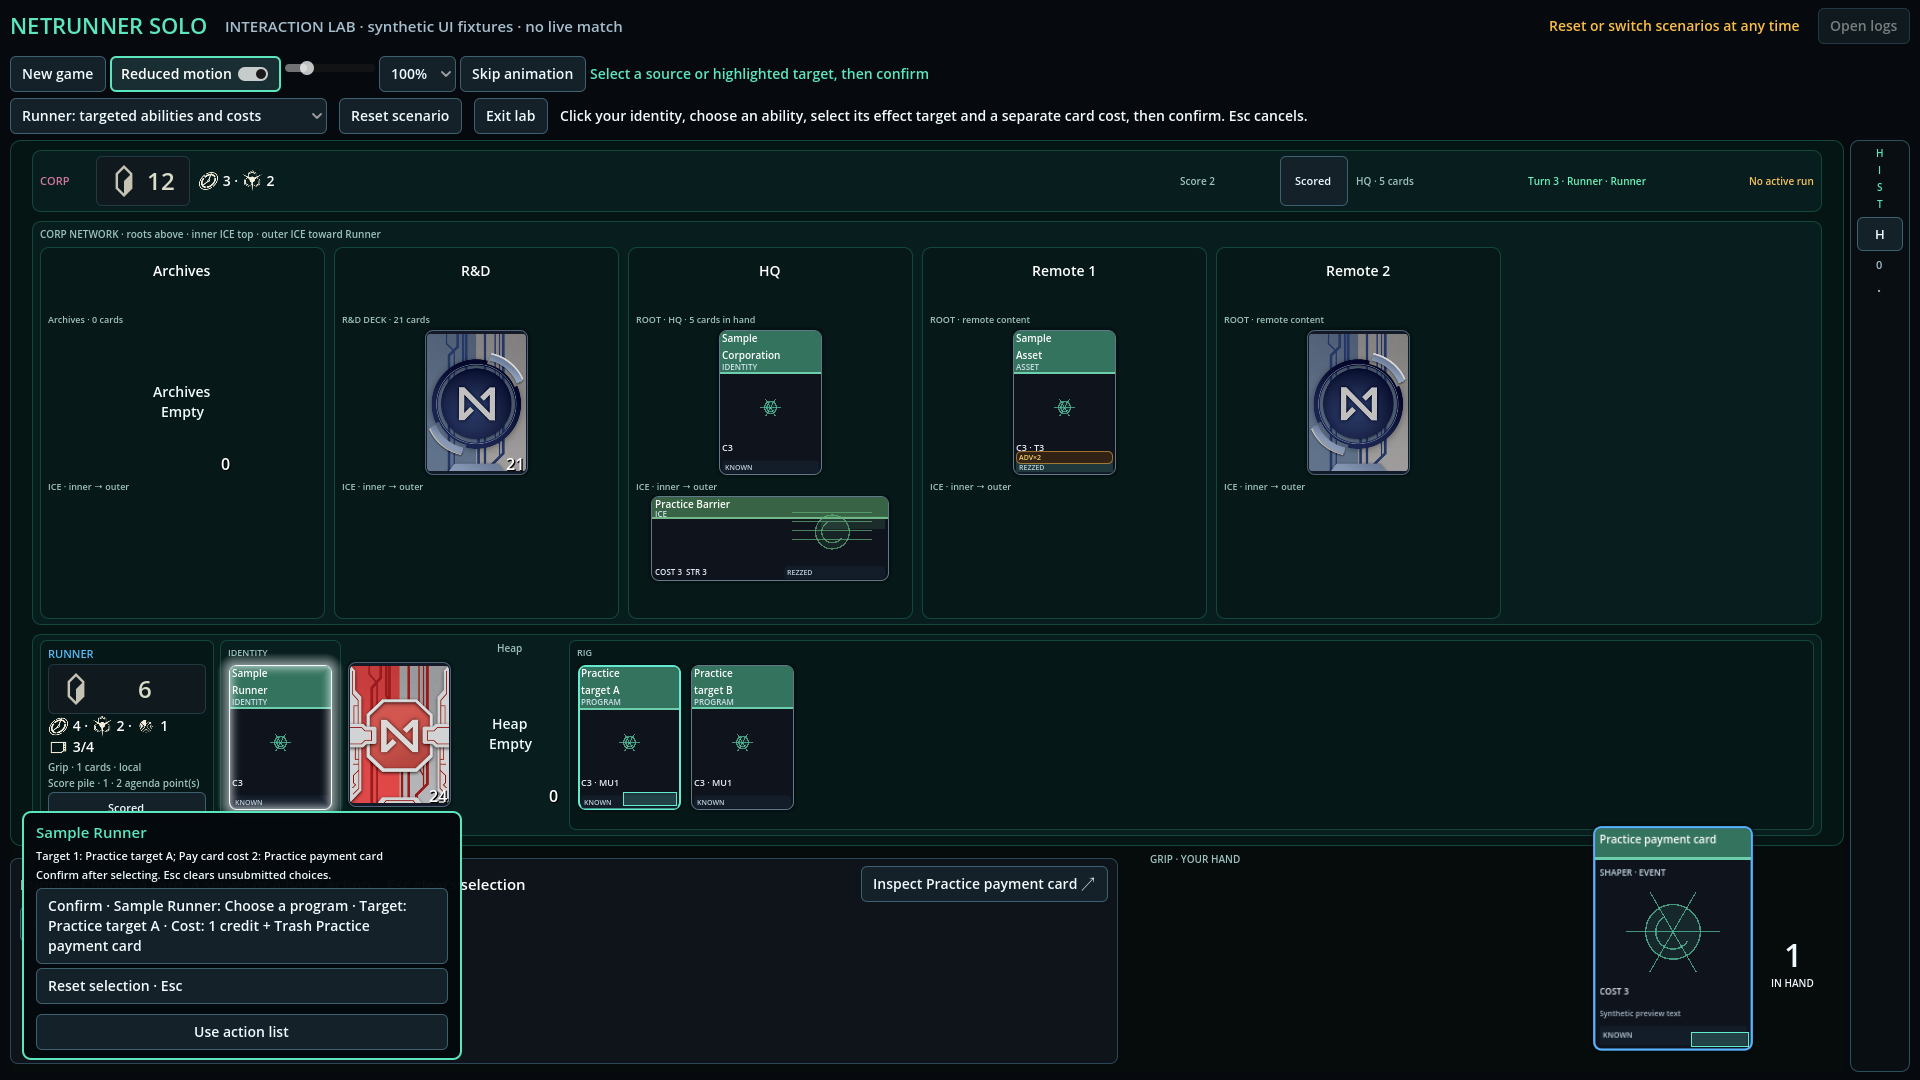
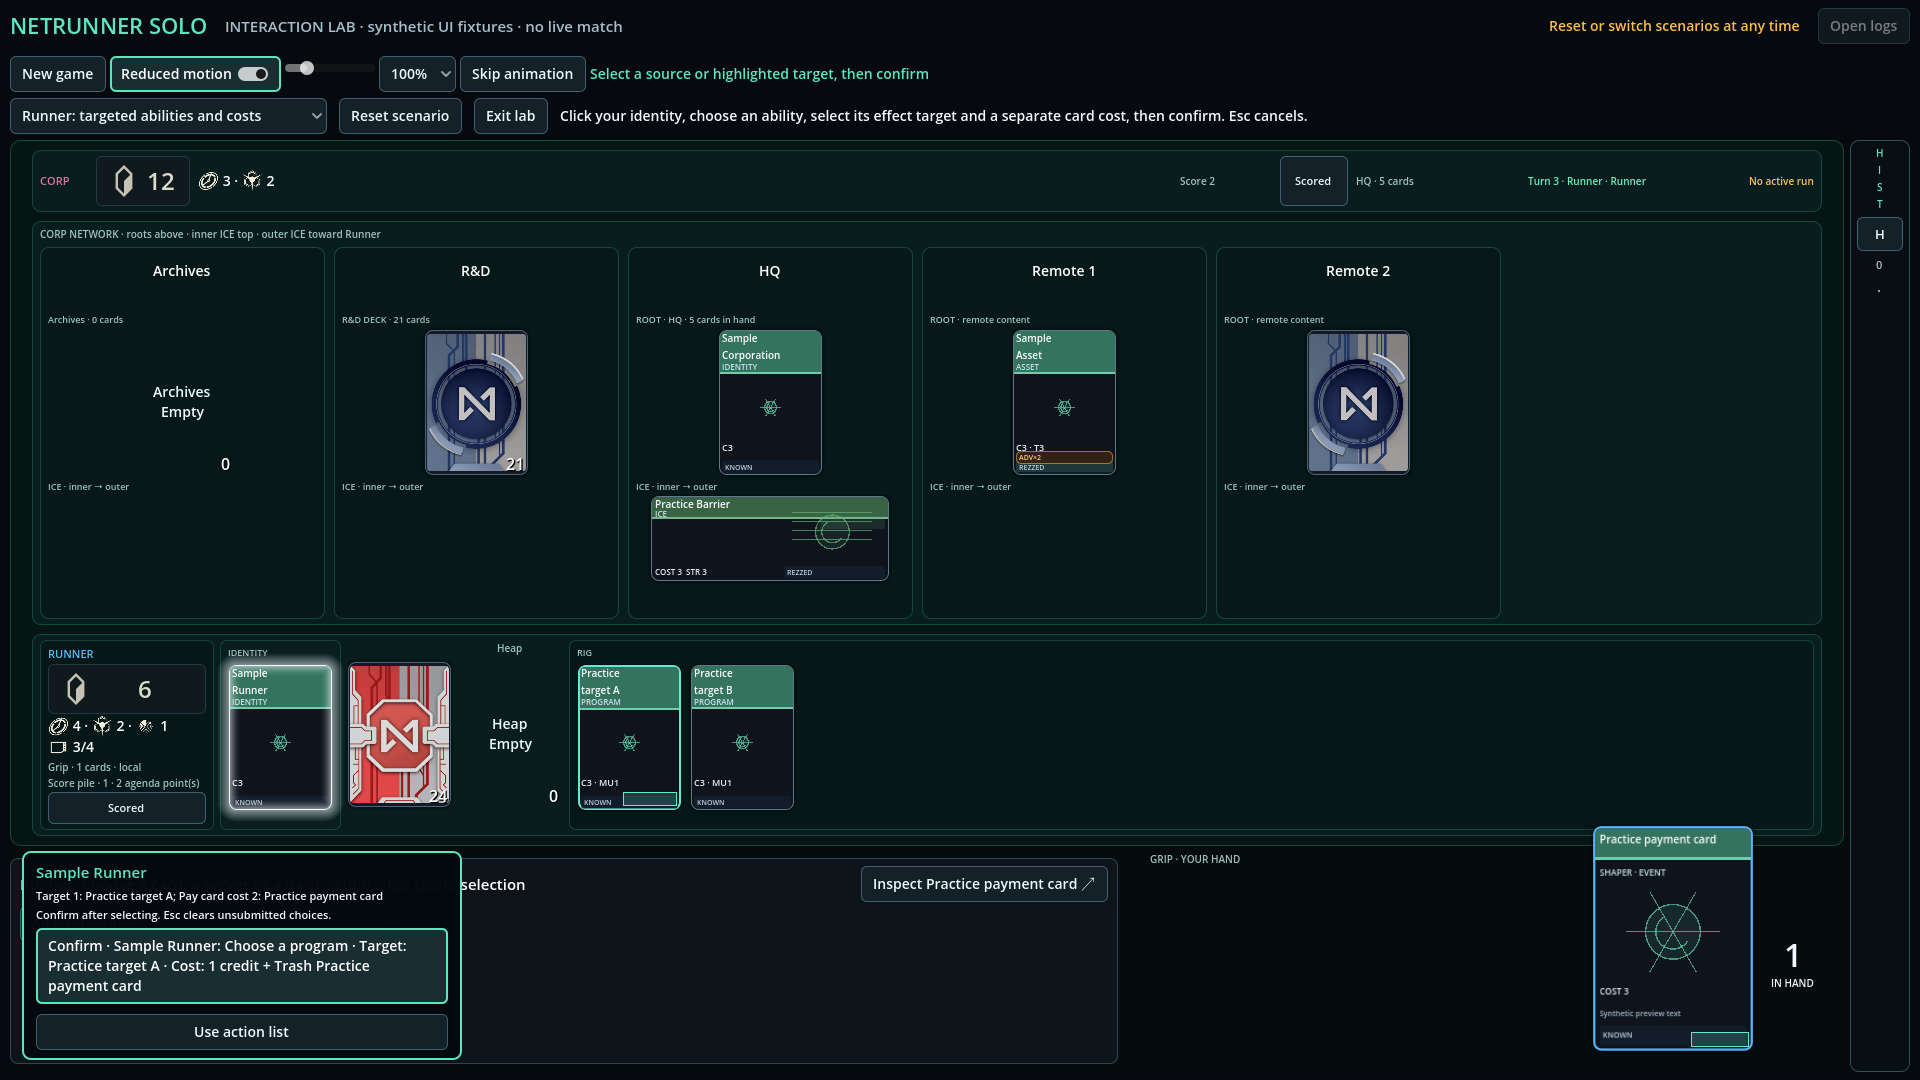
fix: preserve artwork previews and keyboard focus in target browsers

Changed region(s): [[0.0, 0.7333, 0.25, 0.9167]]

diff --git a/src/Netrunner.Godot/scenes/Main.SpatialSmoke.cs b/src/Netrunner.Godot/scenes/Main.SpatialSmoke.cs
@@ -54,7 +54,18 @@ public partial class Main
 				}
 				foreach (BoardTarget target in chosen.Targets)
 				{
-					if (target.Kind == BoardTargetKind.Card) await ClickSpatialCard(target.Id);
+					if (scenario == 28)
+					{
+						TableCardControl candidate = _spatialOptions!.FindChildren("*", "Control", true, false).OfType<TableCardControl>().Single();
+						await LabPointer(candidate.GetGlobalRect().GetCenter());
+						RequireInteraction(candidate.UseHoverPreview && candidate.TooltipText.Length == 0 && CanShowCardHoverPreview(candidate), "Search browser lost its artwork tooltip.");
+						candidate.GrabFocus();
+						GetViewport().PushInput(new InputEventKey { Device = SmokeInputDevice, Keycode = Key.Space, Pressed = true });
+						GetViewport().PushInput(new InputEventKey { Device = SmokeInputDevice, Keycode = Key.Space, Pressed = false });
+						await TableFrames(3);
+						RequireInteraction(_spatialConfirmButtons.Values.Any(button => button.HasFocus()), "Browser selection did not move keyboard focus to confirmation.");
+					}
+					else if (target.Kind == BoardTargetKind.Card) await ClickSpatialCard(target.Id);
 					else if (target.Kind == BoardTargetKind.Subroutine)
 						await ClickTableButton(_spatialOptions!.GetChildren().OfType<Button>().First(button => button.GetMeta("subroutine_ordinal", -1).AsInt32() == 0));
 					else await ClickTableButton(_spatialCues.Single(cue => cue.Target == target).Button);

diff --git a/src/Netrunner.Godot/scenes/Main.SpatialActions.cs b/src/Netrunner.Godot/scenes/Main.SpatialActions.cs
@@ -168,7 +168,6 @@ public partial class Main
 			+ "\nConfirm after selecting. Esc clears unsubmitted choices.";
 		RenderSpatialTargets(snapshot, selection.Candidates.Concat(selection.Selected).Distinct().ToArray());
 		foreach (BoardSpatialAction complete in selection.CompleteActions) AddSpatialConfirm(snapshot, complete);
-		if (selection.Selected.Count > 0) AddSpatialButton("Reset selection · Esc", CancelSpatialSelection);
 	}
 
 	private void AddSpatialConfirm(MatchSnapshot snapshot, BoardSpatialAction action)
@@ -208,6 +207,7 @@ public partial class Main
 		if (_spatialDecision is not { } decision || !CurrentSpatialDecision(decision) || _spatialSelection?.Toggle(target) != true) return;
 		HideCardHoverPreview();
 		RenderSpatialPanel(_currentSnapshot!, BoardSpatialActions.Project(_currentSnapshot!.View));
+		_spatialConfirmButtons.Values.FirstOrDefault()?.GrabFocus();
 	}
 
 	private string SpatialTargetLabel(BoardTarget target) => target.Kind switch
@@ -253,6 +253,7 @@ public partial class Main
 			{
 				_spatialPanel!.GetNode<ScrollContainer>("Content/OptionsScroll").CustomMinimumSize = new(0, 230);
 				TableCardControl card = TableCardControl.Create();
+				card.UseHoverPreview = true;
 				card.SetCard(model);
 				card.SetDisplaySize(new(105, 147));
 				card.SetTargetCandidate(true);

diff --git a/src/Netrunner.Godot/scenes/Main.CardHoverPreview.cs b/src/Netrunner.Godot/scenes/Main.CardHoverPreview.cs
@@ -173,7 +173,8 @@ public partial class Main
 			|| !card.IsInteractionActive
 			|| !card.IsVisibleInTree()
 			|| (!_gameTable.VisibleCards.Values.Contains(card)
-				&& !(ReferenceEquals(card, _tableAccessCard) && _tableAccessPanel.IsVisibleInTree())))
+				&& !(ReferenceEquals(card, _tableAccessCard) && _tableAccessPanel.IsVisibleInTree())
+				&& !(SpatialVisible && _spatialOptions?.IsAncestorOf(card) == true)))
 		{
 			return false;
 		}

diff --git a/src/Netrunner.Godot/scenes/Main.SpatialSelection.cs b/src/Netrunner.Godot/scenes/Main.SpatialSelection.cs
@@ -46,7 +46,6 @@ public partial class Main
 				_spatialSubmission = new(context, _spatialIncrementalCards.ToArray());
 				AdvanceSpatialSubmission(_currentSnapshot!);
 			});
-		AddSpatialButton("Reset selection · Esc", CancelSpatialSelection);
 	}
 
 	private bool AdvanceSpatialSubmission(MatchSnapshot snapshot)
